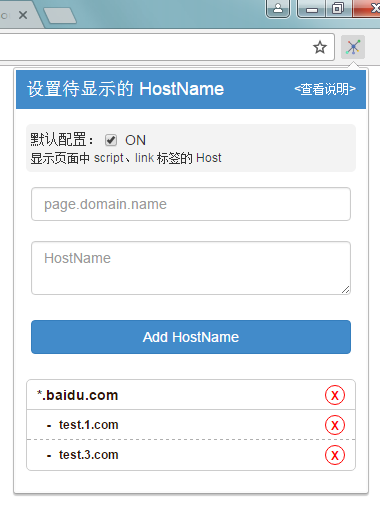
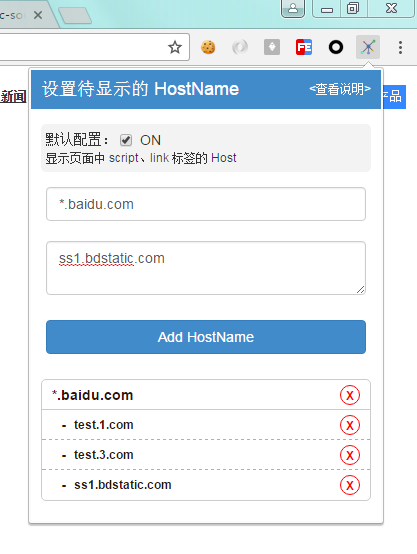
add

Changed region(s): [[0.0, 0.0, 1.0, 0.9688], [0.8684, 0.3438, 0.9263, 0.4375], [0.0579, 0.8438, 0.1158, 0.875]]

diff --git a/README.md b/README.md
@@ -2,6 +2,8 @@
 
 ![插件截图](./screenshot.png "插件截图")
 
+![插件截图](./screenshot1.png "插件截图")
+
 
 SSSH 是一款 Chrome 扩展，通过使用 SSSH 可以在激活的 Tab 选项卡中显示静态资源以及当前页面使用的 Host。
 
